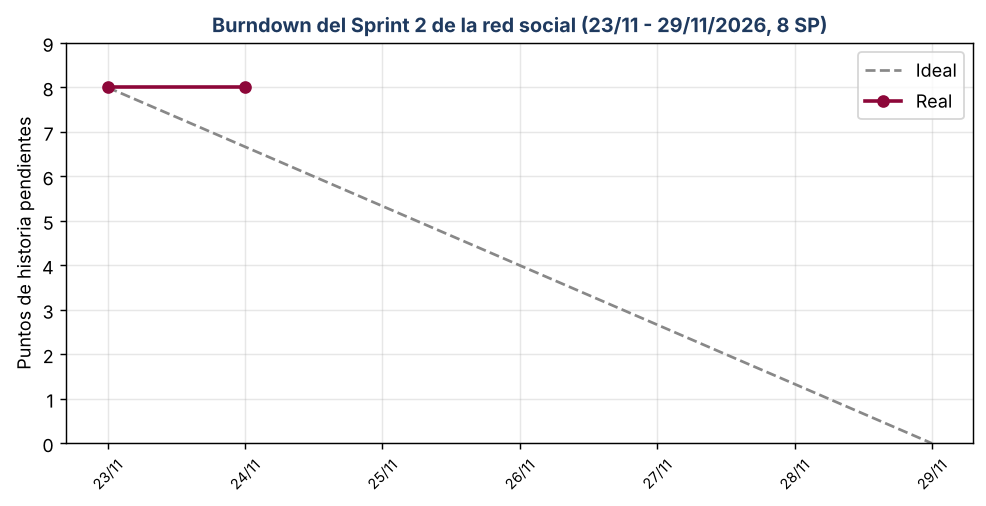
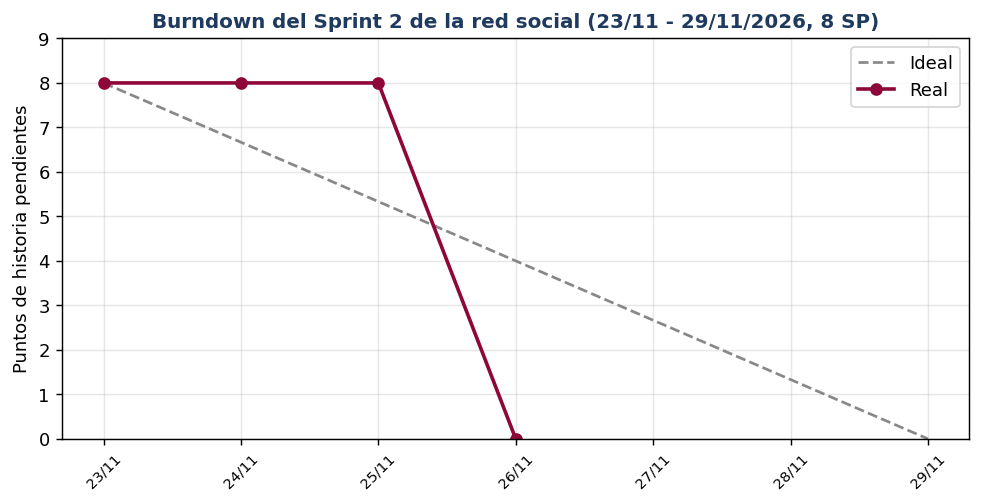
feat: HU-22 y H20 probadas, limite de 8 MB tambien en el editor de bloques, Sprint 2 RSI cerrado y planes de Planner al dia
- E3-04: H22-1 a H22-5, H20-1 (98 frente a 91), H20-2 y H14-3 con resultado; observacion 4 (limite de imagenes por REST)
- imagenes.php: el limite de 8 MB tambien se aplica a las subidas por la API REST
- RSI: burndown, backlog y sprint-02 al 26/11 (RSI-HU-07, 08 y 09 cerradas), review y retrospectiva en borrador
- Planner: plan de la asamblea rehecho (README y diseno), caso de negocio con las correcciones de la revision de Alvaro

diff --git a/cms-wordpress/wp-content/plugins/cadus-portal/includes/imagenes.php b/cms-wordpress/wp-content/plugins/cadus-portal/includes/imagenes.php
@@ -38,6 +38,8 @@ add_filter('wp_image_editors', static function (array $editores): array {
     return array_map(static fn(string $e): string => $e === 'WP_Image_Editor_GD' ? 'Cadus_Image_Editor_GD' : $e, $editores);
 });
 add_filter('wp_handle_upload_prefilter', 'cadus_img_limite_subida');
+// Las subidas del editor de bloques van por la API REST, que usa «sideload» y no pasa por el filtro anterior.
+add_filter('wp_handle_sideload_prefilter', 'cadus_img_limite_subida');
 add_action('admin_init', function () {
     if (get_option('cadus_portal_version') && get_option('cadus_img_semillas_version') !== CADUS_IMG_SEMILLAS_VERSION) {
         cadus_img_actualizar_semillas();
@@ -72,10 +74,12 @@ function cadus_img_formato_salida(array $formatos): array
 function cadus_img_limite_subida(array $archivo): array
 {
     $tipo = (string) ($archivo['type'] ?? '');
-    if (strpos($tipo, 'image/') === 0 && (int) ($archivo['size'] ?? 0) > CADUS_IMG_MAX_MB * MB_IN_BYTES) {
+    // La subida por REST con el archivo en el cuerpo (editor de bloques) no rellena «size»: se lee del archivo temporal.
+    $tam = (int) ($archivo['size'] ?? 0) ?: (is_file((string) ($archivo['tmp_name'] ?? '')) ? (int) filesize($archivo['tmp_name']) : 0);
+    if (strpos($tipo, 'image/') === 0 && $tam > CADUS_IMG_MAX_MB * MB_IN_BYTES) {
         $archivo['error'] = sprintf(
             'La imagen pesa %s y el máximo es %d MB. Redúcela antes de subirla (por ejemplo, a 1920 px de ancho con squoosh.app) y vuelve a intentarlo.',
-            size_format((int) $archivo['size'], 1),
+            size_format($tam, 1),
             CADUS_IMG_MAX_MB
         );
     }

diff --git a/tests/E3-04-pruebas-de-aceptacion.md b/tests/E3-04-pruebas-de-aceptacion.md
@@ -44,7 +44,7 @@ Se cronometra con una persona que no conoce el portal, desde la portada y en el 
 |---|---|---|---|
 | H14-1 | Portada y menú en móvil y tablet (anónimo). | Menú plegable, tarjetas en una columna, sin scroll horizontal. | **OK en emulación (prueba cruzada: Marcos (con Claude), 23/11; Joaquín programó HU-14a).** Portada en marcos de 390 y 768 px: sin scroll horizontal, el botón «Menú» abre el menú a pantalla completa con todas las entradas y a 390 px accesos, listas, pasos y contacto van en una columna. Los 20 elementos que «se salían por la derecha» eran las tarjetas del carrusel de noticias, que se desplaza en horizontal a propósito: no es un fallo. Móvil real: ver H14-5. Capturas en `tests/capturas/marcos-23-11/`. Antes: Parcial (15/11, emulación a 390 y 768 px; en el móvil real de Pablo la portada se ve bien el 22/11, ver H14-5). La página no hace scroll horizontal; a 390 px el botón «Menú» abre el menú a pantalla completa. A 768 px 20 elementos de la portada se salen por la derecha pero quedan recortados (no hay scroll); no se identificaron cuáles. Las tarjetas en una columna no se comprobaron una a una. |
 | H14-2 | Directorio de delegaciones en móvil y tablet. | Tarjetas legibles, buscador usable, sin textos cortados. | OK (22/11, navegador integrado a 390 px y 768 px). Sin scroll horizontal; 27 delegaciones (una columna a 390 px, dos a 768 px); el buscador filtra al escribir (`ETSII` deja 1 delegación). |
-| H14-3 | Ficha de una delegación en móvil y tablet. | Datos y enlaces visibles, el botón «Volver al listado» funciona. | Parcial (22/11, 390 px). Ficha de la ETSII: correo, teléfono, Instagram y lista de miembros visibles, sin scroll horizontal; el enlace «Volver al listado» apunta a `/delegaciones/` (se comprobó su destino, no se pulsó). Falta la parte de tablet. |
+| H14-3 | Ficha de una delegación en móvil y tablet. | Datos y enlaces visibles, el botón «Volver al listado» funciona. | **OK (tablet real el 23/11, comprobada y dada por buena por Pablo).** Móvil: ver «Antes». Antes: Parcial (22/11, 390 px). Ficha de la ETSII: correo, teléfono, Instagram y lista de miembros visibles, sin scroll horizontal; el enlace «Volver al listado» apunta a `/delegaciones/` (se comprobó su destino, no se pulsó). Falta la parte de tablet. |
 | H14-4 | Tabla de actas y normativa en móvil. | Cada fila se muestra como tarjeta con sus etiquetas (Fecha, Documento, Tipo, PDF). | OK (22/11, 390 px). Cada fila de la tabla es una tarjeta con las etiquetas Fecha, Documento, Tipo y PDF, sin scroll horizontal; a 768 px vuelve la tabla con cabecera. |
 | H14-5 | Buzón, calendario y mediación en un móvil y una tablet reales. | Se pueden completar y enviar sin perder funciones (lo prueba Pablo; se anota aquí). | **OK** (móvil el 22/11 y tablet el 23/11, según Pablo). Móvil (22/11, según Pablo, con su móvil real por Tailscale: ha probado todo, incluidos buzón, calendario, mediación y menú). La primera vez la portada salió sin estilos ni imágenes por la caché de WP Fastest Cache del WordPress local (servía páginas generadas por `localhost`), no por un fallo del portal; tras vaciar la caché se ve bien. Lo probó Pablo, que programó HU-14c: no es prueba cruzada. **Tablet: OK (23/11, según Pablo, que la da por comprobada y bien).** Además, la emulación a 768 px ya estaba medida. |
 
@@ -81,8 +81,8 @@ Se cronometra con una persona que no conoce el portal, desde la portada y en el 
 
 | # | Prueba | Resultado esperado | Resultado |
 |---|---|---|---|
-| H20-1 | Lighthouse de rendimiento en la portada (móvil). | Mejora respecto a la medición anterior (anotar antes y después). | |
-| H20-2 | Imágenes con carga diferida y tamaño ajustado. | Ninguna imagen supera el tamaño acordado (HU-20a): fotos de la galería de 720 px como máximo y en WebP, escudos en WebP a su tamaño, y una imagen subida de más de 1920 px se reduce a 1920 px (una de más de 8 MB se rechaza). | Parcial (15/11). En la portada, 6 imágenes, la mayor de 46 KB; todas con carga diferida salvo el logotipo. No se comprobó el resto de páginas ni el tamaño acordado. |
+| H20-1 | Lighthouse de rendimiento en la portada (móvil). | Mejora respecto a la medición anterior (anotar antes y después). | **OK (26/11, Claude en nombre de Pablo, `python scripts/pruebas/lighthouse.py 26-11-final --paginas Inicio`, Lighthouse 12.6.1, móvil, mediana de 3 ejecuciones, `docs/rendimiento/lighthouse-26-11-final.json`).** Portada: rendimiento **98**, LCP 1,98 s, TBT 0 ms, peso 301 KB, 16 peticiones. **Antes (12/11, `HU-20b-informe.md`): 91**, LCP 2,9 s, 537 KB. Mejora de 7 puntos y de 0,9 s en el LCP, con los mismos ajustes de caché, minificado y Gzip. Se midió en el WordPress local de Pablo, no en un servidor de la US. |
+| H20-2 | Imágenes con carga diferida y tamaño ajustado. | Ninguna imagen supera el tamaño acordado (HU-20a): fotos de la galería de 720 px como máximo y en WebP, escudos en WebP a su tamaño, y una imagen subida de más de 1920 px se reduce a 1920 px (una de más de 8 MB se rechaza). | **OK (26/11, Claude en nombre de Pablo, con peticiones HTTP reales y `test-ejecutivo`; no es prueba de otra persona).** Portada, Noticias, Delegaciones y Actas: las fotos de la galería se sirven en WebP (con JPEG de reserva en `<picture>`), de 720 px como máximo (la mayor, 189 KB), y los 27 escudos de Delegaciones en WebP de 300 px y 27 KB como máximo; todas con carga diferida salvo el logotipo de la cabecera. **Subida:** una imagen de 3000 × 2000 px (3,9 MB) se guarda reducida a 1920 × 1280. Una PNG de 17,6 MB **se aceptaba por la API REST** (la que usa el editor de bloques): fallo encontrado en esta prueba (ver observación 4); corregido en `includes/imagenes.php` y repetido: ahora responde «La imagen pesa 17,6 MB y el máximo es 8 MB…». Imágenes de prueba borradas. Antes: Parcial (15/11). |
 
 ### HU-22 · Relevo de la cuenta de la delegación (RN-04, RF-14)
 
@@ -90,11 +90,11 @@ Modelo decidido con el CADUS el 09/11: **una cuenta por delegación**, con el co
 
 | # | Prueba | Resultado esperado | Resultado |
 |---|---|---|---|
-| H22-1 | Delegado: en «Relevo de la cuenta», elegir «Contraseña nueva», marcar la confirmación y hacer el relevo. | Sale a la pantalla de acceso con el aviso «Relevo hecho» y entra con la contraseña nueva; la ficha sigue en la misma cuenta. | |
-| H22-2 | Tras el relevo, el equipo anterior intenta seguir: con la sesión abierta en otro navegador y con la contraseña antigua. | La otra sesión queda cerrada y la contraseña antigua no sirve. | |
-| H22-3 | Delegado: cambiar en el formulario (herramientas del navegador) el campo `cuenta` por el número de otra delegación y enviarlo. | No puede: «Solo puedes hacer el relevo de la cuenta de tu propia delegación» (403). | |
-| H22-4 | Ejecutiva: hacer el relevo de otra delegación. | Puede; la lista solo ofrece cuentas de delegación (ninguna de administrador) y la tabla muestra el último relevo. | |
-| H22-5 | Comprobar que cada delegación queda con una sola cuenta activa: en la tabla de la Ejecutiva, y con `php scripts/roles/aplicar_usuarios.php` probando una segunda cuenta para la misma delegación. | Una sola cuenta por ficha; el script rechaza la segunda («para el relevo cambia su contraseña, no crees otra»). | |
+| H22-1 | Delegado: en «Relevo de la cuenta», elegir «Contraseña nueva», marcar la confirmación y hacer el relevo. | Sale a la pantalla de acceso con el aviso «Relevo hecho» y entra con la contraseña nueva; la ficha sigue en la misma cuenta. | **OK (26/11, Claude en nombre de Pablo, con sesiones HTTP reales de las cuentas de prueba `test-delegado` y `test-ejecutivo` (no es prueba de otra persona)).** El delegado hace el relevo con «Contraseña nueva» y confirmación: la web responde con una redirección a la pantalla de acceso con el aviso «Relevo hecho. La cuenta de la delegación ya es del equipo entrante…». La contraseña antigua ya no entra, la nueva sí, y la ficha de la ETSII Informática (32) sigue en la misma cuenta. |
+| H22-2 | Tras el relevo, el equipo anterior intenta seguir: con la sesión abierta en otro navegador y con la contraseña antigua. | La otra sesión queda cerrada y la contraseña antigua no sirve. | **OK (26/11, Claude en nombre de Pablo, con sesiones HTTP reales de las cuentas de prueba `test-delegado` y `test-ejecutivo` (no es prueba de otra persona)).** Una segunda sesión del mismo equipo, abierta antes del relevo en otro «navegador», queda cerrada: al pedir el escritorio la manda a la pantalla de acceso. La sesión que hizo el relevo también se cierra, y la contraseña antigua no sirve. |
+| H22-3 | Delegado: cambiar en el formulario (herramientas del navegador) el campo `cuenta` por el número de otra delegación y enviarlo. | No puede: «Solo puedes hacer el relevo de la cuenta de tu propia delegación» (403). | **OK (26/11, Claude en nombre de Pablo, con sesiones HTTP reales de las cuentas de prueba `test-delegado` y `test-ejecutivo` (no es prueba de otra persona)).** Cambiando el campo `cuenta` por la de la Ejecutiva (251) o por la del administrador `root` (1), el servidor responde 403 «Solo puedes hacer el relevo de la cuenta de tu propia delegación». Sin cambios en esas cuentas. |
+| H22-4 | Ejecutiva: hacer el relevo de otra delegación. | Puede; la lista solo ofrece cuentas de delegación (ninguna de administrador) y la tabla muestra el último relevo. | **OK (26/11, Claude en nombre de Pablo, con sesiones HTTP reales de las cuentas de prueba `test-delegado` y `test-ejecutivo` (no es prueba de otra persona)).** La Ejecutiva hace el relevo de la delegación: aviso «Relevo hecho: la cuenta test-delegado tiene la contraseña nueva y se han cerrado todas sus sesiones», y la tabla pasa de «propia delegación» a «por test-ejecutivo». La lista solo ofrece cuentas de delegación (una, sin administradores) y el relevo de `root` devuelve 403. La contraseña del relevo anterior deja de valer y la sesión abierta del delegado se cierra. |
+| H22-5 | Comprobar que cada delegación queda con una sola cuenta activa: en la tabla de la Ejecutiva, y con `php scripts/roles/aplicar_usuarios.php` probando una segunda cuenta para la misma delegación. | Una sola cuenta por ficha; el script rechaza la segunda («para el relevo cambia su contraseña, no crees otra»). | **OK (26/11, Claude en nombre de Pablo, con sesiones HTTP reales de las cuentas de prueba `test-delegado` y `test-ejecutivo` (no es prueba de otra persona)).** La tabla de la Ejecutiva muestra una sola cuenta (`test-delegado`) para la ficha de la ETSII, y avisa de que las otras 26 fichas no tienen cuenta de delegación. Con `php scripts/roles/aplicar_usuarios.php` (ensayo en seco, CSV temporal con una segunda cuenta para esa ficha) el script la rechaza: «la delegación … ya tiene la cuenta «test-delegado»: para el relevo cambia su contraseña, no crees otra». No se creó ninguna cuenta. |
 
 ### HU-23 · Anonimización a los 2 años (RN-03)
 
@@ -134,11 +134,12 @@ Se prueba con `scripts/pruebas/hu23_prueba_retencion.php` (ver `tests/HU-23-rete
 | 1 | Panel de la Ejecutiva (`test-ejecutivo`), delegaciones (15/11) | Ve las 6 delegaciones, todas del autor `root`, con las acciones «Editar», «Papelera» y «Ver». Es coherente con la decisión X7 (puede editar fichas ajenas), pero también puede **mandar a la papelera** delegaciones ajenas, y X7 solo habla de editar. | Confirmar con Pablo si la Ejecutiva debe poder eliminar delegaciones. La edición no se pudo probar: la pantalla usa el editor de bloques, que no carga en el navegador integrado. |
 | 2 | Panel de la Ejecutiva, votaciones (15/11) | La lista de Votaciones se abre, está vacía (0) y permite «Añadir convocatoria de votación». | Sin incidencia. Probar el alta desde Chrome o Edge. |
 | 3 | Editor de bloques en el navegador integrado (15/11) | Las pantallas con editor de bloques (actas, delegaciones) no cargan: errores de JavaScript del propio editor (React no disponible). Las mediaciones usan el editor clásico y sí funcionan. | Es una limitación de la herramienta de prueba, no del plugin. Probar esas pantallas en Chrome o Edge. |
+| 4 | Límite de 8 MB de imágenes (H20-2, 26/11) | El límite solo se aplicaba a la biblioteca de medios clásica: las subidas por la API REST (editor de bloques de actas y delegaciones) lo saltaban, porque usan otro filtro y no rellenan el tamaño del archivo. Una PNG de 17,6 MB se subió. | Corregido el 26/11 en `includes/imagenes.php` (filtro `wp_handle_sideload_prefilter` y tamaño leído del archivo temporal); repetido: se rechaza con su mensaje. |
 
 ## Comprobaciones finales
 
 - Usuarios de prueba y datos de ejemplo borrados al terminar.
-- Sin avisos de PHP en `wp-content/debug.log`: _por comprobar_.
+- Avisos de PHP (26/11): `WP_DEBUG` está desactivado y no hay `debug.log`; en el `php_error.log` de WampServer no hay ningún aviso de `cadus-portal`. Solo constan uno de Wordfence («Constant WFWAF_OPERATIONAL already defined», 22/11) y los de scripts de línea de comandos sin `HTTP_HOST` (25/11).
 
 ## Trazabilidad
 

diff --git a/docs/redsocial/scrum/sprint-02-rsi.md b/docs/redsocial/scrum/sprint-02-rsi.md
@@ -22,26 +22,26 @@ Pablo y Marcos no tienen historias con puntos este sprint: Pablo actualiza el RE
 
 ## Sprint backlog
 
-| Tarea | Historia | Qué incluye | Quién | Estado a 24/11 |
+| Tarea | Historia | Qué incluye | Quién | Estado a 26/11 |
 |---|---|---|---|---|
-| R-11 | — | REM actualizado con los requisitos de automatización | Pablo | Pendiente |
-| R-12a | RSI-HU-07 | Flujo «Aviso de tarea nueva» (Planner a Teams) con capturas | Joaquín | Pendiente: diseño y guía listos (`docs/redsocial/configuracion-power-automate.md`) |
-| R-12b | RSI-HU-07 | Flujo «Aviso de tareas que vencen» (programado cada día) con capturas | Joaquín | Pendiente: diseño y guía listos |
-| R-12c | RSI-HU-07 | Prueba de los flujos por otra persona (Lab 8) | Marcos | Pendiente |
-| R-13 | RSI-HU-08 | Aplicación de PowerApps «Estado de las delegaciones», o la alternativa documentada si el tenant no la permite | Álvaro | Pendiente: borrador de especificación del 21/11 |
-| R-06c | RSI-HU-09 | Decidir el patrón del plan de la asamblea y rehacerlo en Planner con su captura | Joaquín | Decidido: «Proceso de tareas» (`diseno-tableros-planner.md`); falta rehacerlo y capturarlo |
-| R-14a | RSI-HU-09 | UML de diseño con los cubos nuevos del plan de la asamblea | Álvaro | Pendiente (depende de R-06c) |
-| R-14b | — | Capturas explicadas y documento de la entrega | Pablo | Pendiente |
-| R-14c | — | SCRUM del sprint: planning, burndown diario y review | Joaquín | En curso: este documento y el burndown desde el 23/11 |
-| R-10b | — | Pruebas cruzadas y revisión con Codex | Todos | Pendiente |
+| R-11 | — | REM actualizado con los requisitos de automatización | Pablo | Hecho: REM 1.1 con RF-R13 (Planner) y glosario; falta exportar el PDF desde REMUS |
+| R-12a | RSI-HU-07 | Flujo «Aviso de tarea nueva» (Planner a Teams) con capturas | Joaquín | Hecho el 25/11: flujo creado y capturas 12a y 12b |
+| R-12b | RSI-HU-07 | Flujo «Aviso de tareas que vencen» (programado cada día) con capturas | Joaquín | Hecho el 25/11: flujo creado y capturas 12c y 12d |
+| R-12c | RSI-HU-07 | Prueba de los flujos por otra persona (Lab 8) | Marcos | Hecho el 25/11: los dos flujos probados con su cuenta (capturas 12e a 12l, `pruebas.md`) |
+| R-13 | RSI-HU-08 | Aplicación de PowerApps «Estado de las delegaciones», o la alternativa documentada si el tenant no la permite | Álvaro | Hecho: aplicación guardada, ejecutada y compartida; probada por Marcos el 25/11 (capturas R13-01 a R13-07) |
+| R-06c | RSI-HU-09 | Decidir el patrón del plan de la asamblea y rehacerlo en Planner con su captura | Joaquín | Hecho el 25/11: plan rehecho con cuatro cubos, captura `08-planner.jpg` repetida y prueba de Marcos el 26/11 |
+| R-14a | RSI-HU-09 | UML de diseño con los cubos nuevos del plan de la asamblea | Álvaro | Hecho el 26/11: `uml-rsi-diseno.png` con el patrón de cada plan (PR #100) |
+| R-14b | — | Capturas explicadas y documento de la entrega | Pablo | En curso: documento y zip final del sábado 28/11 |
+| R-14c | — | SCRUM del sprint: planning, burndown diario y review | Joaquín | Hecho salvo la retrospectiva en grupo: planning, burndown al día y review (borrador del 26/11) |
+| R-10b | — | Pruebas cruzadas y revisión con Codex | Todos | En curso: pruebas de Marcos hechas; falta la revisión final con Codex |
 
 ## Heredado del Sprint 1
 
 | Pendiente | Quién |
 |---|---|
-| Revisión de otra persona del caso de negocio (RSI-HU-01) | Por asignar |
-| Solo el plan de la Asamblea tiene captura (`08-planner.jpg`); los de Ejecutiva y Delegaciones no | Joaquín (se recoge con RSI-HU-09) |
-| Prueba cruzada humana de las historias de Teams: solo se probó el aislamiento de canales | Todos (R-10b) |
+| Revisión de otra persona del caso de negocio (RSI-HU-01) | Hecha por Álvaro el 26/11 (`pruebas.md`) |
+| Solo el plan de la Asamblea tiene captura (`08-planner.jpg`); los de Ejecutiva y Delegaciones no | Joaquín: sin capturar; se entrega con la captura del plan de la asamblea y se dice en el documento |
+| Prueba cruzada humana de las historias de Teams: solo se probó el aislamiento de canales | Marcos probó los flujos, la aplicación y el plan nuevo; las historias de Teams del Sprint 1 siguen sin prueba cruzada |
 
 ## Calendario propuesto
 
@@ -77,3 +77,23 @@ Igual que en el Sprint 1 ([`product-backlog-rsi.md`](product-backlog-rsi.md)): e
 |---|---|
 | 23/11 | Inicio del sprint (Lab 8). Burndown: 8 SP pendientes |
 | 24/11 | Guía y diseño de los flujos de Power Automate, decisión y guía del rediseño del plan de la asamblea (RSI-HU-09), planning y script del burndown. Ninguna historia cerrada según la DoD: 8 SP pendientes |
+| 25/11 | Capturas de los dos flujos (Joaquín) y plan de la asamblea rehecho con su captura; Marcos prueba los flujos y la aplicación de Álvaro. Pendiente: 8 SP (aún no estaban en `main`) |
+| 26/11 | Pruebas de Marcos y UML de diseño de Álvaro en `main`: RSI-HU-07, 08 y 09 cerradas según la DoD. Pendiente: 0 SP |
+
+## Sprint Review y retrospectiva (borrador del 26/11/2026)
+
+> Redactada por Pablo, con Claude, a partir de los datos del sprint (commits, burndown y pruebas). No sale de una reunión del equipo: si el equipo la hace el 28 o el 29/11, se añaden aquí sus conclusiones.
+
+### Review
+
+- **Entregado (8 SP, el 26/11):** RSI-HU-07 (dos flujos de Power Automate, con los avisos de tarea nueva y de tareas que vencen), RSI-HU-08 (aplicación de PowerApps «Estado de las delegaciones», probada con otra cuenta) y RSI-HU-09 (plan de la asamblea como Proceso de tareas, con UML de diseño). Las tres, en `main`, con capturas explicadas y probadas por Marcos.
+- **Lo que no cubre:** la aplicación solo se probó con lectura (no se creó, editó ni borró nada) y no desde la pestaña de Teams; los planes de la Ejecutiva y de las delegaciones no tienen captura; las historias de Teams del Sprint 1 siguen sin prueba cruzada humana.
+- **Calidad:** primera vez en el proyecto que cada historia tiene una prueba de otra persona antes de cerrarse (Marcos).
+
+### Retrospectiva
+
+| Qué fue bien | Qué no | Qué cambiamos |
+|---|---|---|
+| Se cerró cada historia con la prueba de otra persona y las capturas en `main` | Las pruebas de Marcos llegaron a `main` el 26/11 y las historias no se cerraron hasta ese día, pese a estar hechas el 25/11 | Subir las pruebas a `main` el mismo día en que se hacen |
+| El burndown se actualizó con el script desde el primer día | Pablo y Marcos no tenían puntos y trabajaron en la integración y las pruebas, que el backlog no refleja | Dar puntos a las pruebas cruzadas y al documento en el próximo sprint |
+| Los cubos del plan de la asamblea se rehicieron sobre el mismo plan y los flujos siguieron funcionando | Dos tareas del plan quedaron con un error de escritura y los planes de la Ejecutiva y las delegaciones, sin captura | Capturar los tres planes cuando se rehaga uno |

diff --git a/docs/redsocial/business-case.md b/docs/redsocial/business-case.md
@@ -1,6 +1,6 @@
 # Caso de negocio · Red Social Interna para el CADUS (MS Teams)
 
-Versión del 22/11/2026 · Autor: Pablo Ruiz Vidal (con Claude) · Revisión: pendiente de otra persona del equipo
+Versión del 26/11/2026 · Autor: Pablo Ruiz Vidal (con Claude) · Revisión: Álvaro Martínez Ocaña, 26/11/2026 (`pruebas.md`)
 
 > **Estructura:** sigue el índice del caso de negocio que muestra el Lab 5 (diapositiva 11, ejemplo de CEMEX): resumen ejecutivo con misión y visión, situación actual con DAFO, descripción del proyecto, drivers, objetivos de negocio, riesgos y participantes (personas y organizaciones). Los requisitos del sistema software (información, funcionales y reglas de negocio) y el glosario van en los apartados 2 y 3 del documento.
 > **Qué es:** un caso de negocio construido para la práctica, que justifica por qué se elige Teams. Lo que sale de la entrevista del 26/10/2026 y de los documentos del proyecto va sin marcar; lo que es una **suposición** va marcado «(por confirmar)». No se inventan datos del CADUS.
@@ -86,7 +86,7 @@ El CADUS (Consejo de Alumnos de la Universidad de Sevilla) ya tiene un portal we
 | La Ejecutiva comparte una sola cuenta, mientras que Teams se apoya en personas con roles distintos | Se diseña para cuentas de grupo (Ejecutiva y una por delegación), como en el portal y el DMS; los roles personales quedan previstos para cuando haya cuentas individuales |
 | Datos personales de estudiantes y delegados | Equipos y canales privados, sin canales abiertos; no se pegan datos de reclamaciones; lo sensible sigue en el DMS con sus permisos |
 | El CADUS no lo adopta | Piloto pequeño y probado, con guía corta de uso |
-| No se pueden crear equipos o usar Power Automate y PowerApps en el tenant | Se comprueba y, si no se puede, se documenta y se propone una alternativa dentro de Teams; los equipos y Planner ya funcionan en el piloto |
+| No se pueden crear equipos o usar Power Automate y PowerApps en el tenant | Se comprueba y, si no se puede, se documenta y se propone una alternativa dentro de Teams; los equipos y Planner ya funcionan en el piloto. **Comprobado el 25/11/2026:** el tenant sí permite crear y ejecutar flujos de Power Automate y una aplicación de lienzo de PowerApps |
 | Las cuentas de delegación pueden no tener Teams habilitado ni licencia (por confirmar) | Comprobarlo con la Universidad antes de poner en marcha las 27 delegaciones |
 | En el piloto los cuatro integrantes son propietarios de los tres equipos, así que no hay una cuenta «solo miembro» fija con la que probar el aislamiento | El 22/11 se bajó temporalmente a Álvaro a miembro para probarlo y se volvió a subir; con las delegaciones reales habrá cuentas solo miembro |
 | No hay contacto con el CADUS en el equipo desde el 16/11/2026 | Las decisiones que dependen del CADUS se marcan «por confirmar» |
@@ -101,7 +101,7 @@ El CADUS (Consejo de Alumnos de la Universidad de Sevilla) ya tiene un portal we
 | Delegaciones de centro (27) | Miembros: leen los avisos, participan en su canal y gestionan sus tareas |
 | Pablo Ruiz Vidal | Product Owner; caso de negocio, REM y creación de los equipos |
 | Joaquín Luna Canela | Scrum Master; Planner, Forms y pestaña del DMS |
-| Álvaro Martínez Ocaña | Revisión del UML de análisis y de diseño; especificación de PowerApps |
+| Álvaro Martínez Ocaña | UML de análisis y de diseño; aplicación de PowerApps |
 | Marcos-Paban Delgado Rodríguez | Configuración de canales, moderación, calendario y capturas |
 | Estudiantes | No participan: no tienen acceso a la red social |
 
@@ -119,4 +119,4 @@ El CADUS (Consejo de Alumnos de la Universidad de Sevilla) ya tiene un portal we
 2. Si las cuentas de delegación tienen Teams habilitado y licencia.
 3. Si las delegaciones usarían la cuenta de su delegación en Teams.
 4. Quién crea y administra los equipos cuando el proyecto termine (por ahora, Pablo).
-5. Si el tenant de la US permite usar Power Automate y PowerApps (Álvaro comprobó que sus páginas de creación cargan; no que se pueda guardar y ejecutar).
+5. Si se puede publicar la aplicación de PowerApps en el tenant de la US: el 25/11/2026 se comprobó que el tenant permite guardar y ejecutar una aplicación de lienzo y flujos de Power Automate; la publicación no se ha comprobado.

diff --git a/colaboracion-microsoft365/planner/README.md b/colaboracion-microsoft365/planner/README.md
@@ -12,7 +12,7 @@ Documentación del artefacto de Planner de la Red Social Interna del CADUS (Lab 
 | Casos de uso | CU-R02 Preparar una asamblea con tareas y CU-R04 Consultar avisos, calendario y tareas |
 | Cómo se crea | [`docs/redsocial/configuracion-planner.md`](../../docs/redsocial/configuracion-planner.md) |
 | Captura | `docs/redsocial/capturas/08-planner.jpg` |
-| Estado | **Diseñado el 21/11/2026. Estado a 22/11: las pestañas de Planner de los tres equipos existen; solo el plan «Preparación de la Asamblea» tiene captura (`08-planner.jpg`).** Las columnas «Estado» de las tablas de tareas son las del diseño y no se han actualizado con lo que haya en Planner. Nota: el evento del calendario cae el 26/11 y la tarea «Preparar la plantilla del acta» vencía el 27/11, después de la asamblea; el 22/11/2026 se cambió su vencimiento en Planner al 25/11 (el diseño inicial decía 27/11). **El 24/11 se decidió rehacer el plan de la Asamblea como proceso de tareas** (RSI-HU-09, razones y diseño nuevo en [`diseno-tableros-planner.md`](../../docs/redsocial/diseno-tableros-planner.md)); hasta que se rehaga en Planner, este documento describe lo que hay |
+| Estado | **Diseñado el 21/11/2026. Plan de la asamblea rehecho el 25/11/2026 como «Proceso de tareas» (cuatro cubos numerados), con captura `08-planner.jpg` y probado por Marcos el 26/11.** Los planes de la Ejecutiva y de las delegaciones siguen como «Ciclo de vida de tareas». Las columnas «Estado» de las tablas de tareas de esos dos planes son las del diseño y no se han actualizado con lo que haya hoy en Planner. |
 
 ## Planes
 
@@ -47,14 +47,18 @@ Son datos de ejemplo: ni nombres de delegados reales ni nada de reclamaciones, m
 
 ### Preparación de la asamblea
 
+Rehecho el 25/11/2026 como **Proceso de tareas** (decisión del 24/11, `docs/redsocial/diseno-tableros-planner.md`): los cubos son las etapas, en orden, y una tarea completada se queda en su etapa.
+
 | Cubo | Tarea | Responsable | Fecha límite | Estado |
 |---|---|---|---|---|
-| Por hacer | Enviar la convocatoria y el orden del día (ejemplo) | Pablo | 24/11/2026 | No iniciada |
-| Por hacer | Preparar la plantilla del acta en el DMS (ejemplo) | Álvaro | 25/11/2026 (ajustada en Planner el 22/11; el diseño decía 27/11) | No iniciada |
-| En curso | Reservar la sala (ejemplo) | Marcos | 25/11/2026 | En curso |
-| Hecho | Crear el evento de la asamblea en el calendario (ejemplo) | Joaquín | 21/11/2026 | Completada |
+| 1 · Convocatoria | Crear el evento de la asamblea en el calendario (ejemplo) | Joaquín | 21/11/2026 | No iniciada |
+| 1 · Convocatoria | Enviar la convocatoria y el orden del día (ejemplo) | Pablo | 24/11/2026 | No iniciada |
+| 2 · Preparación | Preparar la plantilla del acta en el DMS (ejemplo) | Álvaro | 25/11/2026 | No iniciada |
+| 2 · Preparación | Reservar la sala (ejemplo) | Marcos | 25/11/2026 | En curso |
+| 3 · Día de la asamblea | Pasar lista y abrir la sesión (ejemplo) | Pablo | 26/11/2026 | No iniciada |
+| 4 · Después (acta) | Subir el acta aprobada al DMS (ejemplo) | Álvaro | 28/11/2026 | No iniciada |
 
-Las tareas se reparten entre los cubos y los estados a propósito: así la captura y los gráficos de Planner enseñan el avance (CU-R02, pasos 4 y 5) y una delegación ve solo lo suyo al filtrar por su nombre (CU-R04, paso 3).
+Las tareas se reparten entre los cubos a propósito: así la captura y los gráficos de Planner enseñan el avance (CU-R02, pasos 4 y 5) y una delegación ve solo lo suyo al filtrar por su nombre (CU-R04, paso 3). En Planner la tarea de la etapa 3 se llama «Pasar lista y abrir la sesion(ejemplo)», sin tilde ni espacio (detalle menor).
 
 ## Permisos
 

diff --git a/docs/redsocial/diseno-tableros-planner.md b/docs/redsocial/diseno-tableros-planner.md
@@ -35,7 +35,7 @@ Los tres planes comparten la herramienta (Planner como pestaña de un equipo de 
 |---|---|---|---|---|---|---|
 | Coordinación de la Ejecutiva | Tareas | Una tarjeta es una tarea de preparación (un aviso, una revisión) | Estado del trabajo: Por hacer, En curso, Hecho | Sí | Sí: la tarea pasa de un cubo al siguiente | **Ciclo de vida de tareas** |
 | Seguimiento de las delegaciones | Tareas | Una tarjeta es lo que debe hacer una delegación (confirmar asistencia, leer un aviso) | Estado del trabajo, igual que arriba | Sí | Sí | **Ciclo de vida de tareas** |
-| Preparación de la asamblea | Tareas | Una tarjeta es un paso de la preparación | Etapa del proyecto: antes, durante y después de la asamblea | Sí, sigue el calendario | No: una tarea pertenece a su etapa y se completa donde está | **Proceso de tareas** (el diseño actual usa el ciclo de vida) |
+| Preparación de la asamblea | Tareas | Una tarjeta es un paso de la preparación | Etapa del proyecto: antes, durante y después de la asamblea | Sí, sigue el calendario | No: una tarea pertenece a su etapa y se completa donde está | **Proceso de tareas** (rehecho el 25/11/2026) |
 
 ### Por qué no «Tareas asignadas» ni «Tareas categorizadas» en el plan de las delegaciones
 
@@ -86,6 +86,7 @@ Las dos tareas nuevas existen para que ninguna etapa quede vacía: un proceso co
 
 ### Estado
 
-- **A 24/11/2026 no se ha cambiado nada en Planner.** Falta rehacer el plan y repetir la captura `08-planner.jpg` (Joaquín), reflejar los cubos nuevos en el UML de diseño (Álvaro) y actualizar el texto del documento (Pablo).
-- **Al terminar,** cambiar en la tabla «Aplicación a los tres planes» la última columna del plan de la asamblea (ahora dice «el diseño actual usa el ciclo de vida») por «rehecho el DD/11/2026», y anotar lo mismo en [`colaboracion-microsoft365/planner/README.md`](../../colaboracion-microsoft365/planner/README.md).
-- **Si no se hace antes de la entrega,** el documento sigue describiendo lo que hay en Planner (ciclo de vida) y esta decisión se cita como trabajo futuro.
+- **Rehecho el 25/11/2026.** Joaquín renombró y reordenó los cubos del mismo plan «Preparación de la Asamblea» (en CADUS · Asamblea, canal General): 1 · Convocatoria, 2 · Preparación, 3 · Día de la asamblea y 4 · Después (acta), con las dos tareas nuevas. La captura `08-planner.jpg` es la del plan rehecho (25/11) y Marcos lo probó el 26/11 con su cuenta (`docs/redsocial/pruebas.md`, «Prueba del plan de la asamblea rehecho por otra persona»).
+- **UML de diseño:** Álvaro reflejó el patrón de cada plan en `uml-rsi-diseno.png` (R-14a, PR #100).
+- **Diferencias entre el diseño y lo que hay en Planner,** vistas en la captura y en la prueba de Marcos: en Planner ninguna tarea está completada (la de crear el evento figura como pendiente aunque su fecha, el 21/11, ya pasó) y a la tarea de la etapa 3 le falta un espacio y la tilde: «Pasar lista y abrir la sesion(ejemplo)». Son datos de ejemplo; no cambian el patrón.
+- **Los planes de la Ejecutiva y de las delegaciones** siguen como Ciclo de vida de tareas, por decisión del 24/11.

diff --git a/docs/redsocial/scrum/product-backlog-rsi.md b/docs/redsocial/scrum/product-backlog-rsi.md
@@ -12,9 +12,9 @@
 | RSI-HU-04 | Como Ejecutiva, quiero un canal de avisos donde solo yo publique y un canal privado por delegación para que cada una vea solo lo suyo. | RF-R03, RF-R05, RN-R01, RN-R02, CU-R01, CU-R04, CU-R05 | 5 | Hecho en `main` el 22/11 (configuración de Marcos del 21/11, capturas 03 a 05, 05b, 05c, 10 y 11); aislamiento probado con una cuenta Miembro (Álvaro, 22/11) | Sprint 1 | Marcos |
 | RSI-HU-05 | Como Ejecutiva y delegación, queremos calendario, tareas, formularios y enlace al DMS dentro de Teams. | RF-R07 a RF-R10, RN-R03, CU-R02, CU-R03 | 5 | Hecho en `main` el 22/11: Planner, Forms y pestaña del DMS (Joaquín, capturas 07 a 09) y calendario (Marcos, captura 06); solo el plan de la Asamblea tiene captura | Sprint 1 | Joaquín (calendario: Marcos) |
 | RSI-HU-06 | Como equipo, queremos el documento de la entrega, el REM exportado y el zip con la lista del profesor. | Todos | 3 | Hecho en `main` el 22/11 con el commit de cierre (documento con el índice del Lab 5, PDF del REM y zip con la lista del profesor); el envío del zip se hace esa noche | Sprint 1 | Pablo |
-| RSI-HU-07 | Como Ejecutiva, quiero avisos automáticos cuando se asigna una tarea o vence su fecha. | RF-R11, RC-R02 | 3 | Pendiente (Lab 8) | Sprint 2 | Joaquín |
-| RSI-HU-08 | Como Ejecutiva, quiero una aplicación sencilla con la lista de delegaciones y su estado, si el tenant lo permite. | RF-R12, RC-R02 | 3 | Pendiente (Lab 8); no se ha comprobado que el tenant ofrezca PowerApps | Sprint 2 | Álvaro |
-| RSI-HU-09 | Como Ejecutiva y delegación, queremos que cada tablero de Planner siga un patrón de diseño explícito, para entender cada plan sin explicación (Lab 6). | RF-R09, RNF-R02 | 2 | Pendiente: análisis redactado (`docs/redsocial/diseno-tableros-planner.md`); falta decidir si el plan de la asamblea pasa a «Proceso de tareas», rehacerlo en Planner con su captura y reflejarlo en el UML | Sprint 2 | Joaquín |
+| RSI-HU-07 | Como Ejecutiva, quiero avisos automáticos cuando se asigna una tarea o vence su fecha. | RF-R11, RC-R02 | 3 | Hecho el 26/11/2026: dos flujos de Power Automate con capturas (Joaquín), copropietario Marcos, probados por él el 25/11 (`pruebas.md`) | Sprint 2 | Joaquín |
+| RSI-HU-08 | Como Ejecutiva, quiero una aplicación sencilla con la lista de delegaciones y su estado, si el tenant lo permite. | RF-R12, RC-R02 | 3 | Hecho el 26/11/2026: aplicación «Estado de las delegaciones» guardada, ejecutada y compartida (Álvaro), probada por Marcos el 25/11 (`pruebas.md`) | Sprint 2 | Álvaro |
+| RSI-HU-09 | Como Ejecutiva y delegación, queremos que cada tablero de Planner siga un patrón de diseño explícito, para entender cada plan sin explicación (Lab 6). | RF-R09, RNF-R02 | 2 | Hecho el 26/11/2026: plan de la asamblea rehecho como «Proceso de tareas» (Joaquín, 25/11), UML de diseño (Álvaro) y prueba de Marcos el 26/11 (`pruebas.md`) | Sprint 2 | Joaquín |
 
 **Total del Sprint 1: 22 SP.** Sprint 2 (23/11 a 29/11): 8 SP más lo que quede del Sprint 1.
 

diff --git a/docs/redsocial/configuracion-power-automate.md b/docs/redsocial/configuracion-power-automate.md
@@ -72,7 +72,7 @@ Es un flujo programado porque Planner no tiene un disparador «vence la fecha».
 - `12c-power-automate-flujo-vencimiento.jpg`: el flujo en el editor con todas sus acciones.
 - `12d-power-automate-aviso-vencimiento.jpg`: el mensaje con la tabla en el canal.
 
-Los nombres `12a` a `12d` son una propuesta para dejar el `13` a la aplicación de PowerApps de Álvaro; Pablo los confirma al montar el documento.
+Los nombres `12a` a `12d` dejan el `13` a la aplicación de PowerApps de Álvaro; confirmados por Pablo el 26/11/2026. Las capturas de la prueba de Marcos son `12e` a `12l`.
 
 ## Si el tenant no lo permite
 
